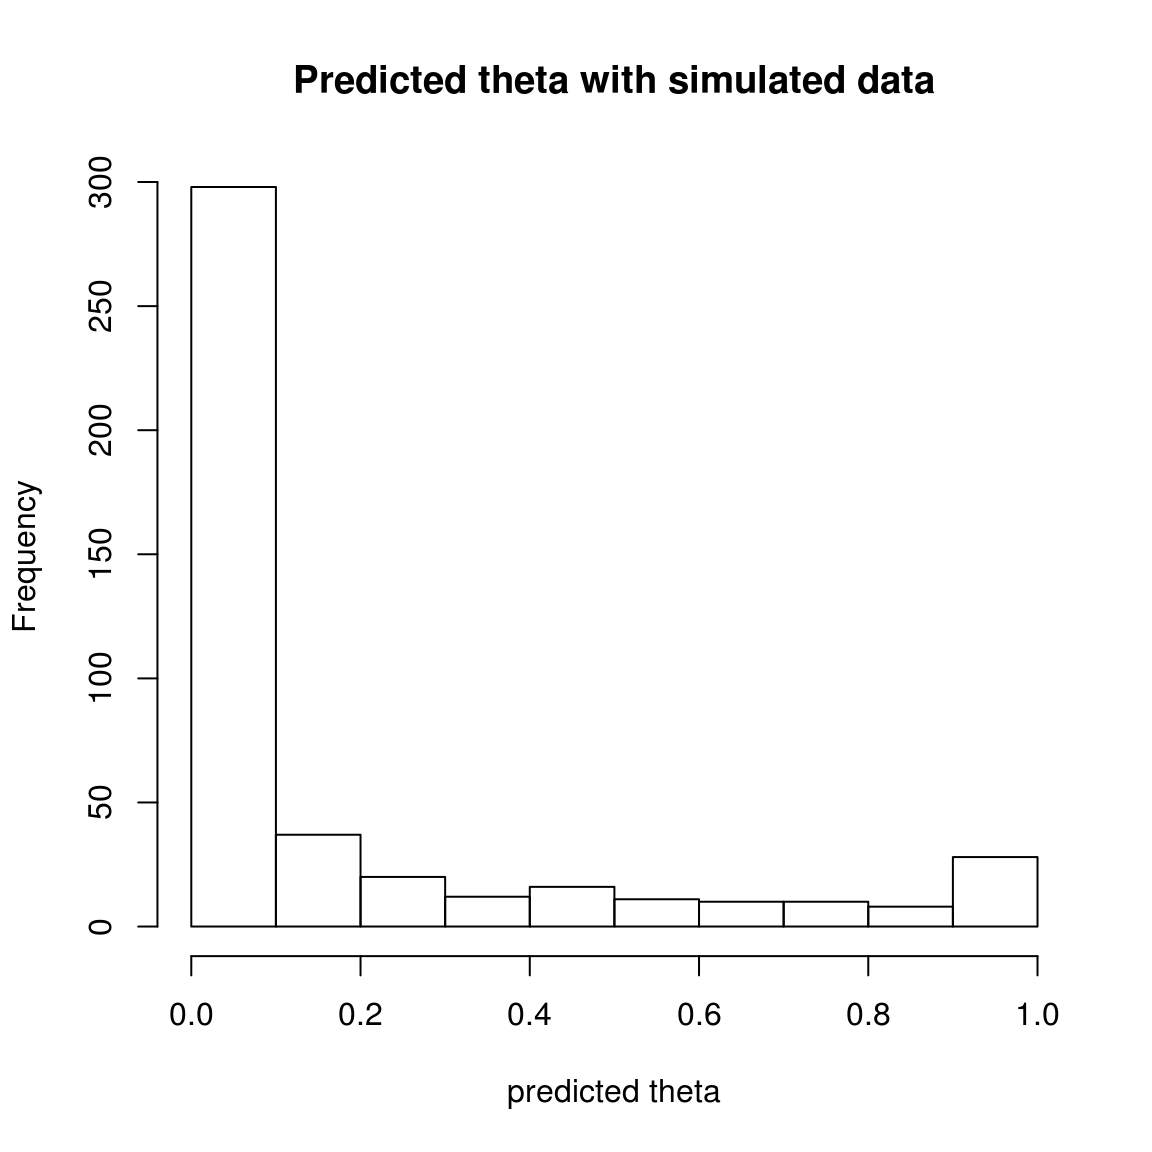
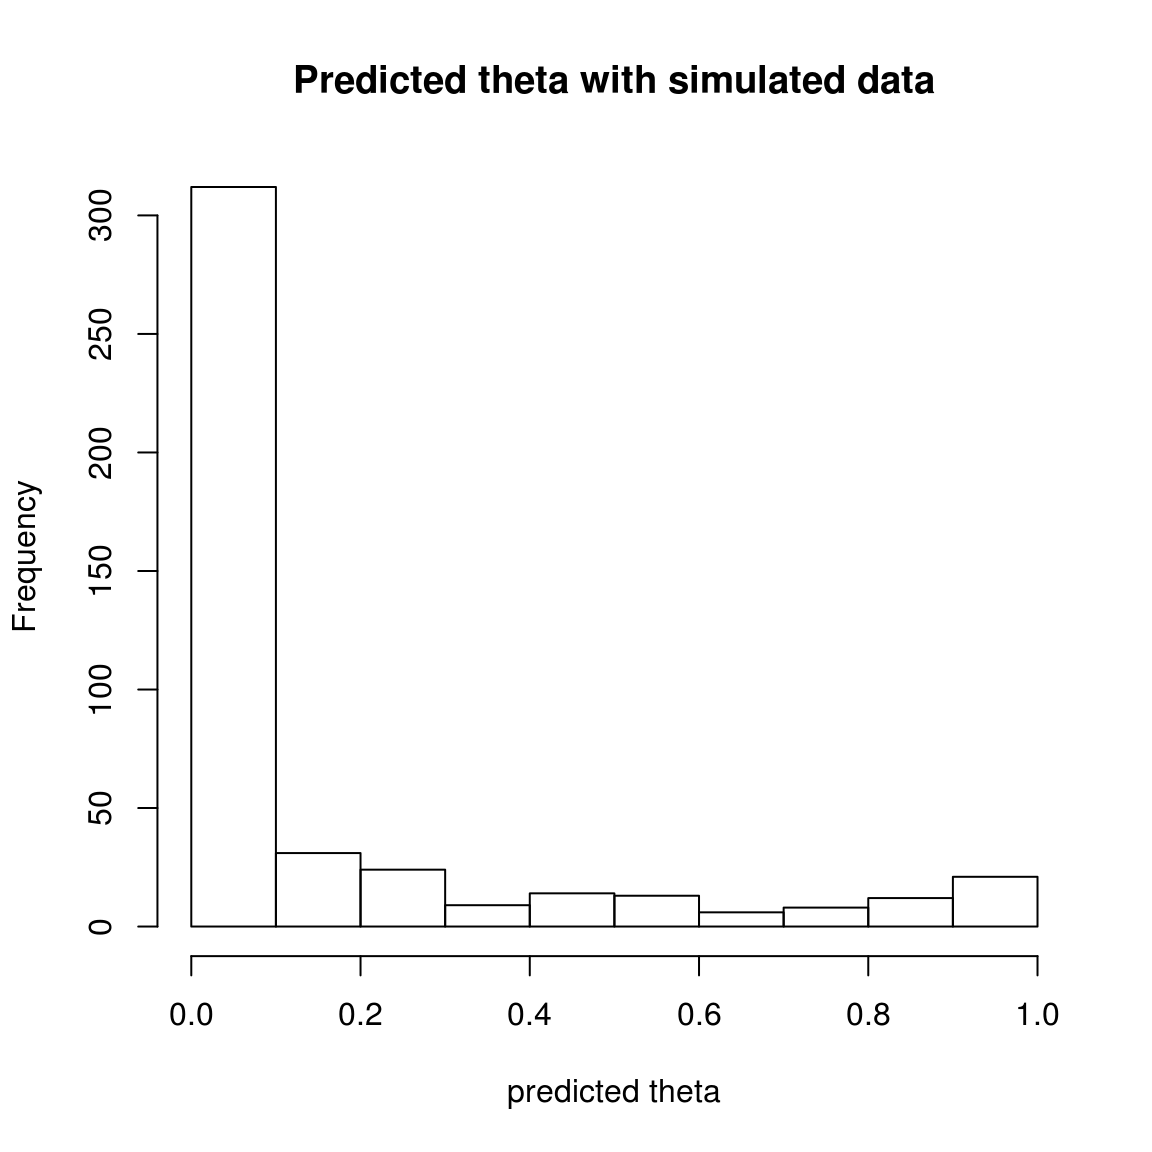
Deploy ghislainv/jSDM to github.com/ghislainv/jSDM.git:gh-pages

diff --git a/reference/get_residual_cor.html b/reference/get_residual_cor.html
@@ -168,26 +168,27 @@
     
 
     <h2 class="hasAnchor" id="examples"><a class="anchor" href="#examples"></a>Examples</h2>
-    <pre class="examples"><div class='input'><span class='co'># frogs data</span>
+    <pre class="examples"><div class='input'>
+<span class='co'># frogs data</span>
 <span class='fu'><a href='https://www.rdocumentation.org/packages/utils/topics/data'>data</a></span>(<span class='no'>frogs</span>, <span class='kw'>package</span><span class='kw'>=</span><span class='st'>"jSDM"</span>)
+
 <span class='co'># Arranging data</span>
-<span class='co'># data.obs</span>
 <span class='no'>PA_frogs</span> <span class='kw'>&lt;-</span> <span class='no'>frogs</span>[,<span class='fl'>4</span>:<span class='fl'>12</span>]
 
 <span class='co'># Normalized continuous variables</span>
 <span class='no'>Env_frogs</span> <span class='kw'>&lt;-</span> <span class='fu'><a href='https://www.rdocumentation.org/packages/base/topics/cbind'>cbind</a></span>(<span class='fu'><a href='https://www.rdocumentation.org/packages/base/topics/scale'>scale</a></span>(<span class='no'>frogs</span>[,<span class='fl'>1</span>]),<span class='no'>frogs</span>[,<span class='fl'>2</span>],<span class='fu'><a href='https://www.rdocumentation.org/packages/base/topics/scale'>scale</a></span>(<span class='no'>frogs</span>[,<span class='fl'>3</span>]))
 <span class='fu'><a href='https://www.rdocumentation.org/packages/base/topics/colnames'>colnames</a></span>(<span class='no'>Env_frogs</span>) <span class='kw'>&lt;-</span> <span class='fu'><a href='https://www.rdocumentation.org/packages/base/topics/colnames'>colnames</a></span>(<span class='no'>frogs</span>[,<span class='fl'>1</span>:<span class='fl'>3</span>])
 
- <span class='co'># Parameter inference</span>
- <span class='co'># Increase number of iterations (burnin and mcmc) to get convergence </span>
- <span class='no'>mod_jSDM_block_frogs</span> <span class='kw'>&lt;-</span> <span class='kw pkg'>jSDM</span><span class='kw ns'>::</span><span class='fu'><a href='https://www.rdocumentation.org/packages/jSDM/topics/jSDM_probit_block'>jSDM_probit_block</a></span> (
+<span class='co'># Parameter inference</span>
+<span class='co'># Increase the number of iterations to reach MCMC convergence</span>
+<span class='no'>mod_jSDM_block_frogs</span> <span class='kw'>&lt;-</span> <span class='kw pkg'>jSDM</span><span class='kw ns'>::</span><span class='fu'><a href='https://www.rdocumentation.org/packages/jSDM/topics/jSDM_probit_block'>jSDM_probit_block</a></span> (
   <span class='co'># Response variable </span>
   <span class='kw'>presence_site_sp</span> <span class='kw'>=</span> <span class='fu'><a href='https://www.rdocumentation.org/packages/base/topics/matrix'>as.matrix</a></span>(<span class='no'>PA_frogs</span>),
   <span class='co'># Explanatory variables </span>
   <span class='kw'>site_suitability</span> <span class='kw'>=</span> ~<span class='no'>.</span>,
   <span class='kw'>site_data</span> <span class='kw'>=</span> <span class='fu'><a href='https://www.rdocumentation.org/packages/base/topics/as.data.frame'>as.data.frame</a></span>(<span class='no'>Env_frogs</span>), <span class='kw'>n_latent</span><span class='kw'>=</span><span class='fl'>2</span>,
   <span class='co'># Chains</span>
-  <span class='kw'>burnin</span><span class='kw'>=</span><span class='fl'>3000</span>, <span class='kw'>mcmc</span><span class='kw'>=</span><span class='fl'>3000</span>, <span class='kw'>thin</span><span class='kw'>=</span><span class='fl'>3</span>,
+  <span class='kw'>burnin</span><span class='kw'>=</span><span class='fl'>1000</span>, <span class='kw'>mcmc</span><span class='kw'>=</span><span class='fl'>1000</span>, <span class='kw'>thin</span><span class='kw'>=</span><span class='fl'>1</span>,
   <span class='co'># Starting values</span>
   <span class='kw'>alpha_start</span><span class='kw'>=</span><span class='fl'>0</span>, <span class='kw'>beta_start</span><span class='kw'>=</span><span class='fl'>0</span>,
   <span class='kw'>lambda_start</span><span class='kw'>=</span><span class='fl'>0</span>, <span class='kw'>W_start</span><span class='kw'>=</span><span class='fl'>0</span>,
@@ -210,47 +211,48 @@
 #&gt; **********:80.0% 
 #&gt; **********:90.0% 
 #&gt; **********:100.0% </div><div class='input'>
- <span class='co'># Calcul of residual correlation between species </span>
- <span class='no'>result</span> <span class='kw'>&lt;-</span> <span class='fu'>get_residual_cor</span>(<span class='no'>mod_jSDM_block_frogs</span>)
- <span class='no'>result</span>$<span class='no'>cov.mean</span></div><div class='output co'>#&gt;              [,1]        [,2]       [,3]      [,4]        [,5]       [,6]
-#&gt;  [1,]  2.60388060 -0.07213523  5.2766631  0.664270  0.09692822   3.739117
-#&gt;  [2,] -0.07213523  3.55703779  0.5306708 -1.626357  2.24071926   7.234035
-#&gt;  [3,]  5.27666307  0.53067079 30.1362281  2.945093  0.67182332  10.817757
-#&gt;  [4,]  0.66427003 -1.62635661  2.9450931  8.183835 -1.63318162  -8.530132
-#&gt;  [5,]  0.09692822  2.24071926  0.6718233 -1.633182  4.30941514   8.134145
-#&gt;  [6,]  3.73911662  7.23403549 10.8177566 -8.530132  8.13414487  55.973218
-#&gt;  [7,]  4.09543923  4.47916801 16.6750989 -4.000198  5.05364806  31.273851
-#&gt;  [8,]  0.43086991 -3.64610296  4.2239573  4.870961 -3.66718333 -19.591315
-#&gt;  [9,]  4.37152899  3.77102283 17.8599289 -2.784700  4.48781243  31.558153
-#&gt;            [,7]        [,8]      [,9]
-#&gt;  [1,]  4.095439   0.4308699  4.371529
-#&gt;  [2,]  4.479168  -3.6461030  3.771023
-#&gt;  [3,] 16.675099   4.2239573 17.859929
-#&gt;  [4,] -4.000198   4.8709605 -2.784700
-#&gt;  [5,]  5.053648  -3.6671833  4.487812
-#&gt;  [6,] 31.273851 -19.5913150 31.558153
-#&gt;  [7,] 26.915581  -8.4011617 23.444647
-#&gt;  [8,] -8.401162  13.0609079 -7.934393
-#&gt;  [9,] 23.444647  -7.9343929 28.351107</div><div class='input'> <span class='no'>result</span>$<span class='no'>cor.mean</span></div><div class='output co'>#&gt;             [,1]        [,2]       [,3]       [,4]        [,5]       [,6]
-#&gt;  [1,] 1.00000000  0.05326725 0.57416452  0.1127339  0.08522255  0.3130669
-#&gt;  [2,] 0.05326725  1.00000000 0.03763290 -0.2984142  0.47710740  0.5663358
-#&gt;  [3,] 0.57416452  0.03763290 1.00000000  0.2077572  0.03716552  0.2875858
-#&gt;  [4,] 0.11273391 -0.29841423 0.20775721  1.0000000 -0.28403587 -0.4435746
-#&gt;  [5,] 0.08522255  0.47710740 0.03716552 -0.2840359  1.00000000  0.5949151
-#&gt;  [6,] 0.31306693  0.56633579 0.28758584 -0.4435746  0.59491514  1.0000000
-#&gt;  [7,] 0.47673234  0.48619433 0.54190653 -0.2695672  0.51713800  0.8363977
-#&gt;  [8,] 0.04954751 -0.48970280 0.14664497  0.5225313 -0.50015594 -0.7355103
-#&gt;  [9,] 0.50100969  0.44453601 0.55941039 -0.2536408  0.47738223  0.8646305
-#&gt;             [,7]        [,8]       [,9]
-#&gt;  [1,]  0.4767323  0.04954751  0.5010097
-#&gt;  [2,]  0.4861943 -0.48970280  0.4445360
-#&gt;  [3,]  0.5419065  0.14664497  0.5594104
-#&gt;  [4,] -0.2695672  0.52253130 -0.2536408
-#&gt;  [5,]  0.5171380 -0.50015594  0.4773822
-#&gt;  [6,]  0.8363977 -0.73551033  0.8646305
-#&gt;  [7,]  1.0000000 -0.46294117  0.8939142
-#&gt;  [8,] -0.4629412  1.00000000 -0.4841556
-#&gt;  [9,]  0.8939142 -0.48415557  1.0000000</div></pre>
+<span class='co'># Calcul of residual correlation between species </span>
+<span class='no'>result</span> <span class='kw'>&lt;-</span> <span class='fu'>get_residual_cor</span>(<span class='no'>mod_jSDM_block_frogs</span>)
+<span class='no'>result</span>$<span class='no'>cov.mean</span></div><div class='output co'>#&gt;            [,1]        [,2]        [,3]       [,4]       [,5]       [,6]
+#&gt;  [1,] 2.4160096  0.04606130  5.19941429  0.3039235  0.2799497   1.982537
+#&gt;  [2,] 0.0460613  3.73733015  0.02878276 -0.4796324  1.2577708   6.969494
+#&gt;  [3,] 5.1994143  0.02878276 23.98740472  1.5746637  1.1414620   7.312778
+#&gt;  [4,] 0.3039235 -0.47963243  1.57466368  1.9399933 -0.3089479  -2.354387
+#&gt;  [5,] 0.2799497  1.25777082  1.14146205 -0.3089479  2.3356252   4.428566
+#&gt;  [6,] 1.9825366  6.96949392  7.31277773 -2.3543868  4.4285657  28.738299
+#&gt;  [7,] 3.5071874  4.72952185 13.23880353 -1.2295634  4.0201085  22.260555
+#&gt;  [8,] 0.3226999 -2.70076975  2.69308499  1.8996403 -2.0371107 -11.270430
+#&gt;  [9,] 3.3115655  3.41379873 13.03988384 -0.6643339  2.9266085  17.141552
+#&gt;            [,7]        [,8]       [,9]
+#&gt;  [1,]  3.507187   0.3226999  3.3115655
+#&gt;  [2,]  4.729522  -2.7007698  3.4137987
+#&gt;  [3,] 13.238804   2.6930850 13.0398838
+#&gt;  [4,] -1.229563   1.8996403 -0.6643339
+#&gt;  [5,]  4.020109  -2.0371107  2.9266085
+#&gt;  [6,] 22.260555 -11.2704296 17.1415524
+#&gt;  [7,] 24.489949  -8.6790508 18.1329220
+#&gt;  [8,] -8.679051  10.6351999 -5.0215533
+#&gt;  [9,] 18.132922  -5.0215533 17.1802035</div><div class='input'><span class='no'>result</span>$<span class='no'>cor.mean</span></div><div class='output co'>#&gt;             [,1]        [,2]       [,3]        [,4]       [,5]       [,6]
+#&gt;  [1,] 1.00000000  0.06536441 0.66892148  0.13557947  0.1298461  0.2439377
+#&gt;  [2,] 0.06536441  1.00000000 0.07440238 -0.18456340  0.4099311  0.6276768
+#&gt;  [3,] 0.66892148  0.07440238 1.00000000  0.23010662  0.1713973  0.2826466
+#&gt;  [4,] 0.13557947 -0.18456340 0.23010662  1.00000000 -0.1320177 -0.2845453
+#&gt;  [5,] 0.12984612  0.40993113 0.17139734 -0.13201772  1.0000000  0.5520207
+#&gt;  [6,] 0.24393771  0.62767682 0.28264658 -0.28454530  0.5520207  1.0000000
+#&gt;  [7,] 0.44672852  0.53729997 0.56245074 -0.14834706  0.5194295  0.8747536
+#&gt;  [8,] 0.05345854 -0.51655831 0.15167263  0.36886297 -0.4318932 -0.7418380
+#&gt;  [9,] 0.50742017  0.47351909 0.67955912 -0.09194393  0.4620845  0.8066155
+#&gt;             [,7]        [,8]        [,9]
+#&gt;  [1,]  0.4467285  0.05345854  0.50742017
+#&gt;  [2,]  0.5373000 -0.51655831  0.47351909
+#&gt;  [3,]  0.5624507  0.15167263  0.67955912
+#&gt;  [4,] -0.1483471  0.36886297 -0.09194393
+#&gt;  [5,]  0.5194295 -0.43189321  0.46208446
+#&gt;  [6,]  0.8747536 -0.74183800  0.80661549
+#&gt;  [7,]  1.0000000 -0.56933603  0.89812468
+#&gt;  [8,] -0.5693360  1.00000000 -0.43417705
+#&gt;  [9,]  0.8981247 -0.43417705  1.00000000</div><div class='input'>
+</div></pre>
   </div>
   <div class="col-md-3 hidden-xs hidden-sm" id="sidebar">
     <h2>Contents</h2>

diff --git a/reference/predict.jSDM.html b/reference/predict.jSDM.html
@@ -196,25 +196,24 @@
     <pre class="examples"><div class='input'>
 <span class='co'># frogs data</span>
 <span class='fu'><a href='https://www.rdocumentation.org/packages/utils/topics/data'>data</a></span>(<span class='no'>frogs</span>, <span class='kw'>package</span><span class='kw'>=</span><span class='st'>"jSDM"</span>)
+
 <span class='co'># Arranging data</span>
-<span class='co'># data.obs</span>
 <span class='no'>PA_frogs</span> <span class='kw'>&lt;-</span> <span class='no'>frogs</span>[,<span class='fl'>4</span>:<span class='fl'>12</span>]
 
 <span class='co'># Normalized continuous variables</span>
 <span class='no'>Env_frogs</span> <span class='kw'>&lt;-</span> <span class='fu'><a href='https://www.rdocumentation.org/packages/base/topics/cbind'>cbind</a></span>(<span class='fu'><a href='https://www.rdocumentation.org/packages/base/topics/scale'>scale</a></span>(<span class='no'>frogs</span>[,<span class='fl'>1</span>]),<span class='no'>frogs</span>[,<span class='fl'>2</span>],<span class='fu'><a href='https://www.rdocumentation.org/packages/base/topics/scale'>scale</a></span>(<span class='no'>frogs</span>[,<span class='fl'>3</span>]))
 <span class='fu'><a href='https://www.rdocumentation.org/packages/base/topics/colnames'>colnames</a></span>(<span class='no'>Env_frogs</span>) <span class='kw'>&lt;-</span> <span class='fu'><a href='https://www.rdocumentation.org/packages/base/topics/colnames'>colnames</a></span>(<span class='no'>frogs</span>[,<span class='fl'>1</span>:<span class='fl'>3</span>])
 
- <span class='co'># Parameter inference</span>
- <span class='co'># Increase number of iterations (burnin and mcmc) to get convergence </span>
-
- <span class='no'>mod_jSDM_block_frogs</span> <span class='kw'>&lt;-</span> <span class='kw pkg'>jSDM</span><span class='kw ns'>::</span><span class='fu'><a href='https://www.rdocumentation.org/packages/jSDM/topics/jSDM_probit_block'>jSDM_probit_block</a></span> (
+<span class='co'># Parameter inference</span>
+<span class='co'># Increase the number of iterations to reach MCMC convergence</span>
+<span class='no'>mod_jSDM_block_frogs</span> <span class='kw'>&lt;-</span> <span class='kw pkg'>jSDM</span><span class='kw ns'>::</span><span class='fu'><a href='https://www.rdocumentation.org/packages/jSDM/topics/jSDM_probit_block'>jSDM_probit_block</a></span> (
   <span class='co'># Response variable </span>
   <span class='kw'>presence_site_sp</span> <span class='kw'>=</span> <span class='fu'><a href='https://www.rdocumentation.org/packages/base/topics/matrix'>as.matrix</a></span>(<span class='no'>PA_frogs</span>),
   <span class='co'># Explanatory variables </span>
   <span class='kw'>site_suitability</span> <span class='kw'>=</span> ~<span class='no'>.</span>,
   <span class='kw'>site_data</span> <span class='kw'>=</span> <span class='fu'><a href='https://www.rdocumentation.org/packages/base/topics/as.data.frame'>as.data.frame</a></span>(<span class='no'>Env_frogs</span>), <span class='kw'>n_latent</span><span class='kw'>=</span><span class='fl'>2</span>,
   <span class='co'># Chains</span>
-  <span class='kw'>burnin</span><span class='kw'>=</span><span class='fl'>3000</span>, <span class='kw'>mcmc</span><span class='kw'>=</span><span class='fl'>3000</span>, <span class='kw'>thin</span><span class='kw'>=</span><span class='fl'>3</span>,
+  <span class='kw'>burnin</span><span class='kw'>=</span><span class='fl'>1000</span>, <span class='kw'>mcmc</span><span class='kw'>=</span><span class='fl'>1000</span>, <span class='kw'>thin</span><span class='kw'>=</span><span class='fl'>1</span>,
   <span class='co'># Starting values</span>
   <span class='kw'>alpha_start</span><span class='kw'>=</span><span class='fl'>0</span>, <span class='kw'>beta_start</span><span class='kw'>=</span><span class='fl'>0</span>,
   <span class='kw'>lambda_start</span><span class='kw'>=</span><span class='fl'>0</span>, <span class='kw'>W_start</span><span class='kw'>=</span><span class='fl'>0</span>,
@@ -242,6 +241,7 @@
 <span class='no'>Id_sites</span> <span class='kw'>&lt;-</span> <span class='fu'><a href='https://www.rdocumentation.org/packages/base/topics/sample'>sample.int</a></span>(<span class='fu'><a href='https://www.rdocumentation.org/packages/base/topics/nrow'>nrow</a></span>(<span class='no'>PA_frogs</span>), <span class='fl'>50</span>)
 <span class='co'>## All species </span>
 <span class='no'>Id_species</span> <span class='kw'>&lt;-</span> <span class='fu'><a href='https://www.rdocumentation.org/packages/base/topics/colnames'>colnames</a></span>(<span class='no'>PA_frogs</span>)
+
 <span class='co'># Simulate new observations of covariates on those sites </span>
 <span class='no'>simdata</span> <span class='kw'>&lt;-</span> <span class='fu'><a href='https://www.rdocumentation.org/packages/base/topics/matrix'>matrix</a></span>(<span class='kw'>nrow</span><span class='kw'>=</span><span class='fl'>50</span>, <span class='kw'>ncol</span> <span class='kw'>=</span> <span class='fu'><a href='https://www.rdocumentation.org/packages/base/topics/nrow'>ncol</a></span>(<span class='no'>mod_jSDM_block_frogs</span>$<span class='no'>model_spec</span>$<span class='no'>site_data</span>))
 <span class='fu'><a href='https://www.rdocumentation.org/packages/base/topics/colnames'>colnames</a></span>(<span class='no'>simdata</span>) <span class='kw'>&lt;-</span> <span class='fu'><a href='https://www.rdocumentation.org/packages/base/topics/colnames'>colnames</a></span>(<span class='no'>mod_jSDM_block_frogs</span>$<span class='no'>model_spec</span>$<span class='no'>site_data</span>)
@@ -255,7 +255,8 @@
 <span class='no'>theta_pred</span> <span class='kw'>&lt;-</span> <span class='fu'>predict.jSDM</span>(
 <span class='no'>mod_jSDM_block_frogs</span>, <span class='kw'>newdata</span><span class='kw'>=</span><span class='no'>simdata</span>,
 <span class='kw'>Id_species</span><span class='kw'>=</span><span class='no'>Id_species</span>, <span class='kw'>Id_sites</span><span class='kw'>=</span><span class='no'>Id_sites</span>, <span class='kw'>type</span><span class='kw'>=</span><span class='st'>"mean"</span>)
-<span class='fu'><a href='https://www.rdocumentation.org/packages/graphics/topics/hist'>hist</a></span>(<span class='no'>theta_pred</span>, <span class='kw'>main</span><span class='kw'>=</span><span class='st'>"Predicted theta with simulated covariates"</span>)</div><div class='img'><img src='predict.jSDM-1.png' alt='' width='700' height='433' /></div><div class='input'> </div></pre>
+<span class='fu'><a href='https://www.rdocumentation.org/packages/graphics/topics/hist'>hist</a></span>(<span class='no'>theta_pred</span>, <span class='kw'>main</span><span class='kw'>=</span><span class='st'>"Predicted theta with simulated covariates"</span>)</div><div class='img'><img src='predict.jSDM-1.png' alt='' width='700' height='433' /></div><div class='input'>
+</div></pre>
   </div>
   <div class="col-md-3 hidden-xs hidden-sm" id="sidebar">
     <h2>Contents</h2>

diff --git a/reference/plot_residual_cor.html b/reference/plot_residual_cor.html
@@ -159,26 +159,27 @@
     
 
     <h2 class="hasAnchor" id="examples"><a class="anchor" href="#examples"></a>Examples</h2>
-    <pre class="examples"><div class='input'><span class='co'># frogs data</span>
+    <pre class="examples"><div class='input'>
+<span class='co'># frogs data</span>
 <span class='fu'><a href='https://www.rdocumentation.org/packages/utils/topics/data'>data</a></span>(<span class='no'>frogs</span>, <span class='kw'>package</span><span class='kw'>=</span><span class='st'>"jSDM"</span>)
+
 <span class='co'># Arranging data</span>
-<span class='co'># data.obs</span>
 <span class='no'>PA_frogs</span> <span class='kw'>&lt;-</span> <span class='no'>frogs</span>[,<span class='fl'>4</span>:<span class='fl'>12</span>]
 
 <span class='co'># Normalized continuous variables</span>
 <span class='no'>Env_frogs</span> <span class='kw'>&lt;-</span> <span class='fu'><a href='https://www.rdocumentation.org/packages/base/topics/cbind'>cbind</a></span>(<span class='fu'><a href='https://www.rdocumentation.org/packages/base/topics/scale'>scale</a></span>(<span class='no'>frogs</span>[,<span class='fl'>1</span>]),<span class='no'>frogs</span>[,<span class='fl'>2</span>],<span class='fu'><a href='https://www.rdocumentation.org/packages/base/topics/scale'>scale</a></span>(<span class='no'>frogs</span>[,<span class='fl'>3</span>]))
 <span class='fu'><a href='https://www.rdocumentation.org/packages/base/topics/colnames'>colnames</a></span>(<span class='no'>Env_frogs</span>) <span class='kw'>&lt;-</span> <span class='fu'><a href='https://www.rdocumentation.org/packages/base/topics/colnames'>colnames</a></span>(<span class='no'>frogs</span>[,<span class='fl'>1</span>:<span class='fl'>3</span>])
 
- <span class='co'># Parameter inference</span>
- <span class='co'># Increase number of iterations (burnin and mcmc) to get convergence </span>
- <span class='no'>mod_jSDM_block_frogs</span> <span class='kw'>&lt;-</span> <span class='kw pkg'>jSDM</span><span class='kw ns'>::</span><span class='fu'><a href='https://www.rdocumentation.org/packages/jSDM/topics/jSDM_probit_block'>jSDM_probit_block</a></span> (
+<span class='co'># Parameter inference</span>
+<span class='co'># Increase the number of iterations to reach MCMC convergence</span>
+<span class='no'>mod_jSDM_block_frogs</span> <span class='kw'>&lt;-</span> <span class='kw pkg'>jSDM</span><span class='kw ns'>::</span><span class='fu'><a href='https://www.rdocumentation.org/packages/jSDM/topics/jSDM_probit_block'>jSDM_probit_block</a></span> (
   <span class='co'># Response variable </span>
   <span class='kw'>presence_site_sp</span> <span class='kw'>=</span> <span class='fu'><a href='https://www.rdocumentation.org/packages/base/topics/matrix'>as.matrix</a></span>(<span class='no'>PA_frogs</span>),
   <span class='co'># Explanatory variables </span>
   <span class='kw'>site_suitability</span> <span class='kw'>=</span> ~<span class='no'>.</span>,
   <span class='kw'>site_data</span> <span class='kw'>=</span> <span class='fu'><a href='https://www.rdocumentation.org/packages/base/topics/as.data.frame'>as.data.frame</a></span>(<span class='no'>Env_frogs</span>), <span class='kw'>n_latent</span><span class='kw'>=</span><span class='fl'>2</span>,
   <span class='co'># Chains</span>
-  <span class='kw'>burnin</span><span class='kw'>=</span><span class='fl'>3000</span>, <span class='kw'>mcmc</span><span class='kw'>=</span><span class='fl'>3000</span>, <span class='kw'>thin</span><span class='kw'>=</span><span class='fl'>3</span>,
+  <span class='kw'>burnin</span><span class='kw'>=</span><span class='fl'>1000</span>, <span class='kw'>mcmc</span><span class='kw'>=</span><span class='fl'>1000</span>, <span class='kw'>thin</span><span class='kw'>=</span><span class='fl'>1</span>,
   <span class='co'># Starting values</span>
   <span class='kw'>alpha_start</span><span class='kw'>=</span><span class='fl'>0</span>, <span class='kw'>beta_start</span><span class='kw'>=</span><span class='fl'>0</span>,
   <span class='kw'>lambda_start</span><span class='kw'>=</span><span class='fl'>0</span>, <span class='kw'>W_start</span><span class='kw'>=</span><span class='fl'>0</span>,
@@ -201,8 +202,9 @@
 #&gt; **********:80.0% 
 #&gt; **********:90.0% 
 #&gt; **********:100.0% </div><div class='input'>
- <span class='co'># Representation of residual correlation between species </span>
- <span class='fu'>plot_residual_cor</span>(<span class='no'>mod_jSDM_block_frogs</span>)</div><div class='img'><img src='plot_residual_cor-1.png' alt='' width='700' height='433' /></div></pre>
+<span class='co'># Representation of residual correlation between species </span>
+<span class='fu'>plot_residual_cor</span>(<span class='no'>mod_jSDM_block_frogs</span>)</div><div class='img'><img src='plot_residual_cor-1.png' alt='' width='700' height='433' /></div><div class='input'>
+</div></pre>
   </div>
   <div class="col-md-3 hidden-xs hidden-sm" id="sidebar">
     <h2>Contents</h2>
